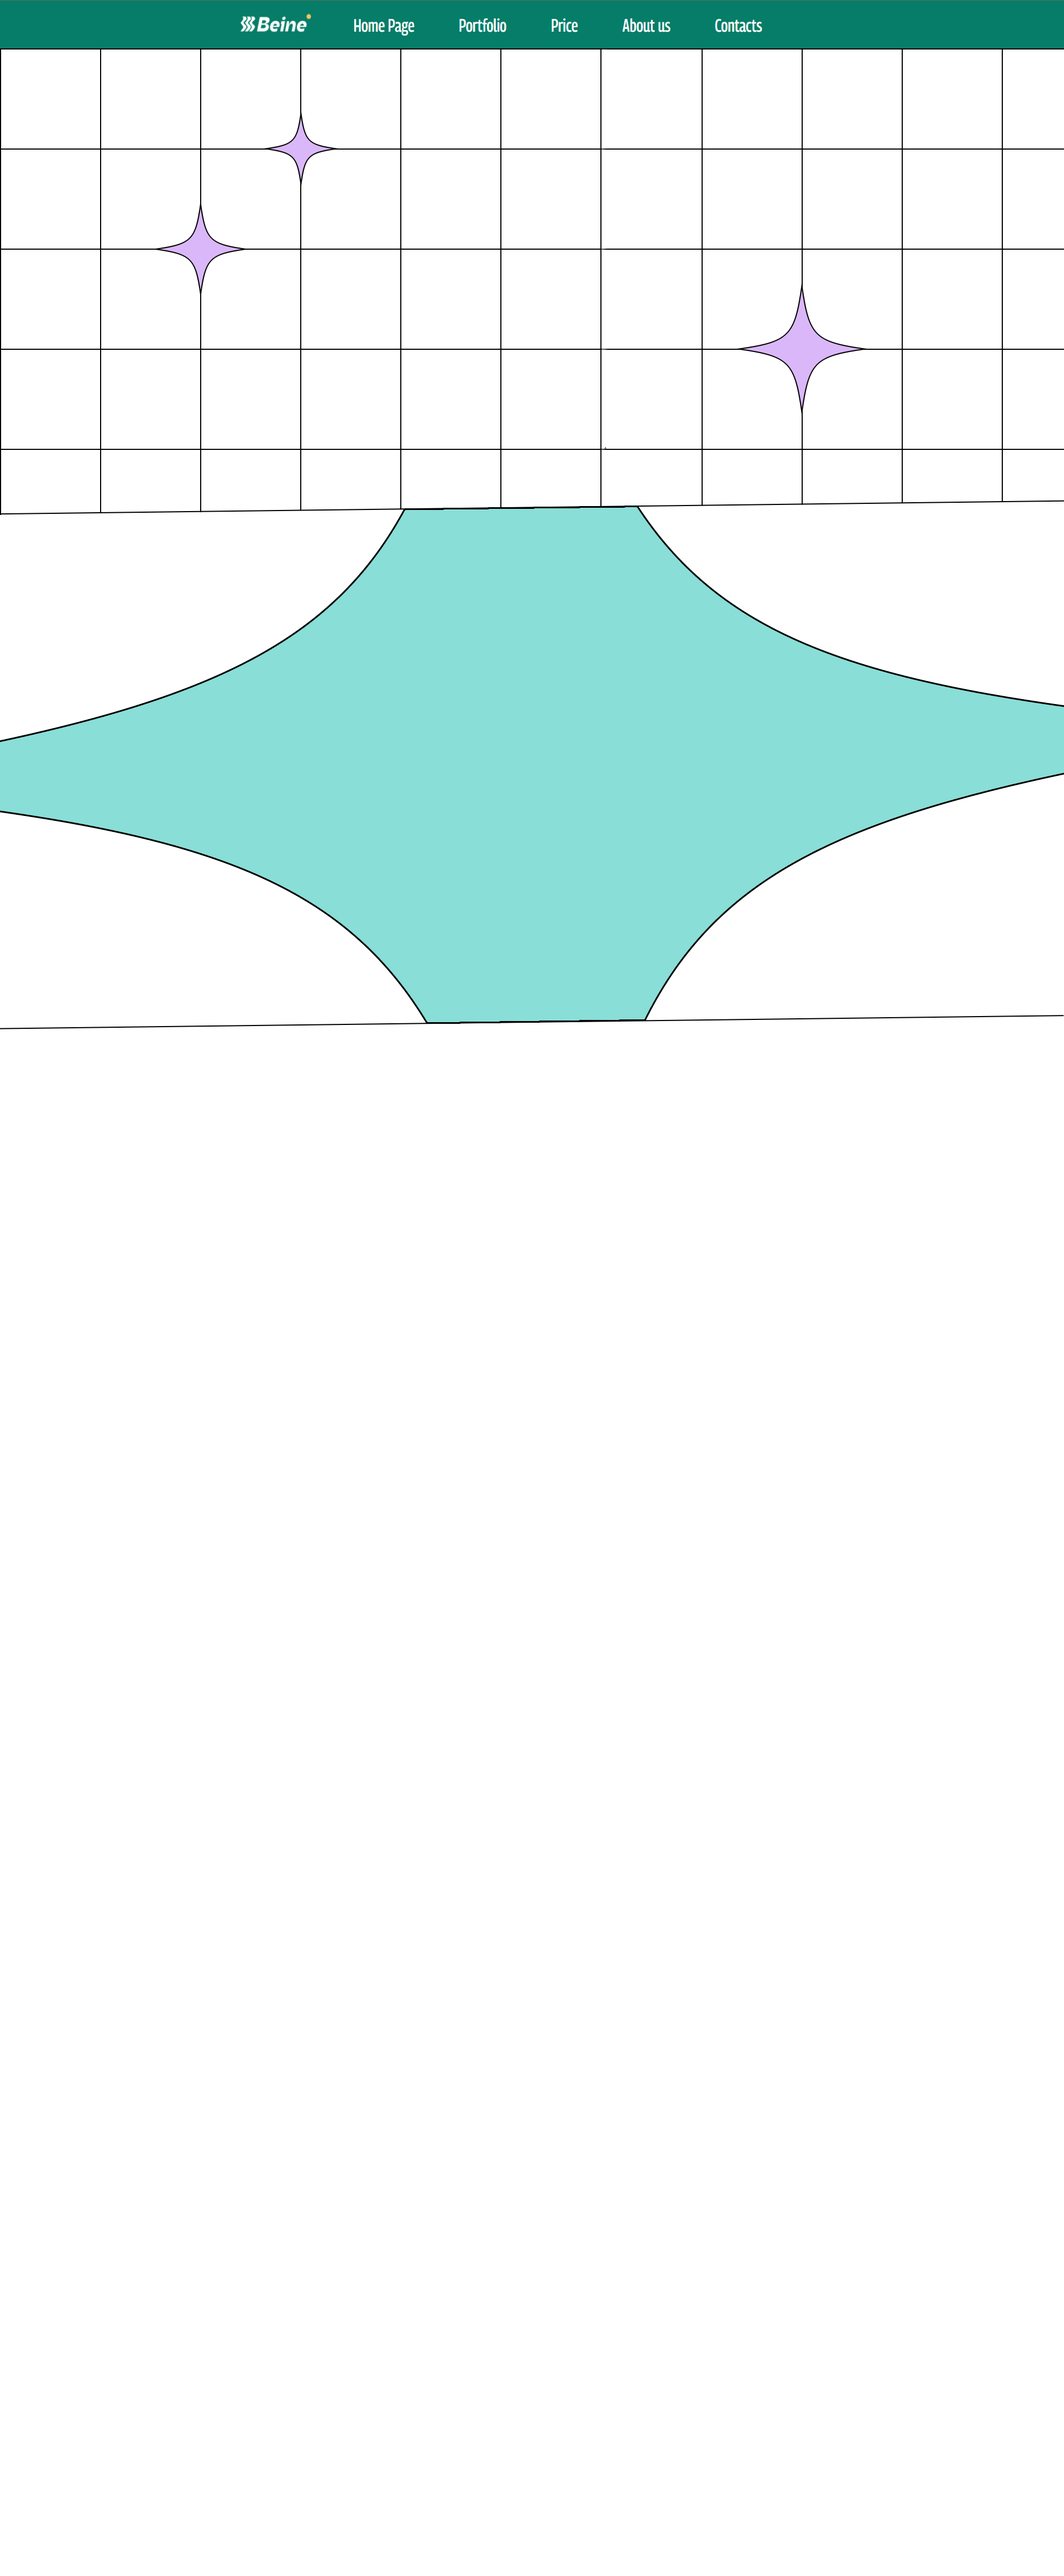
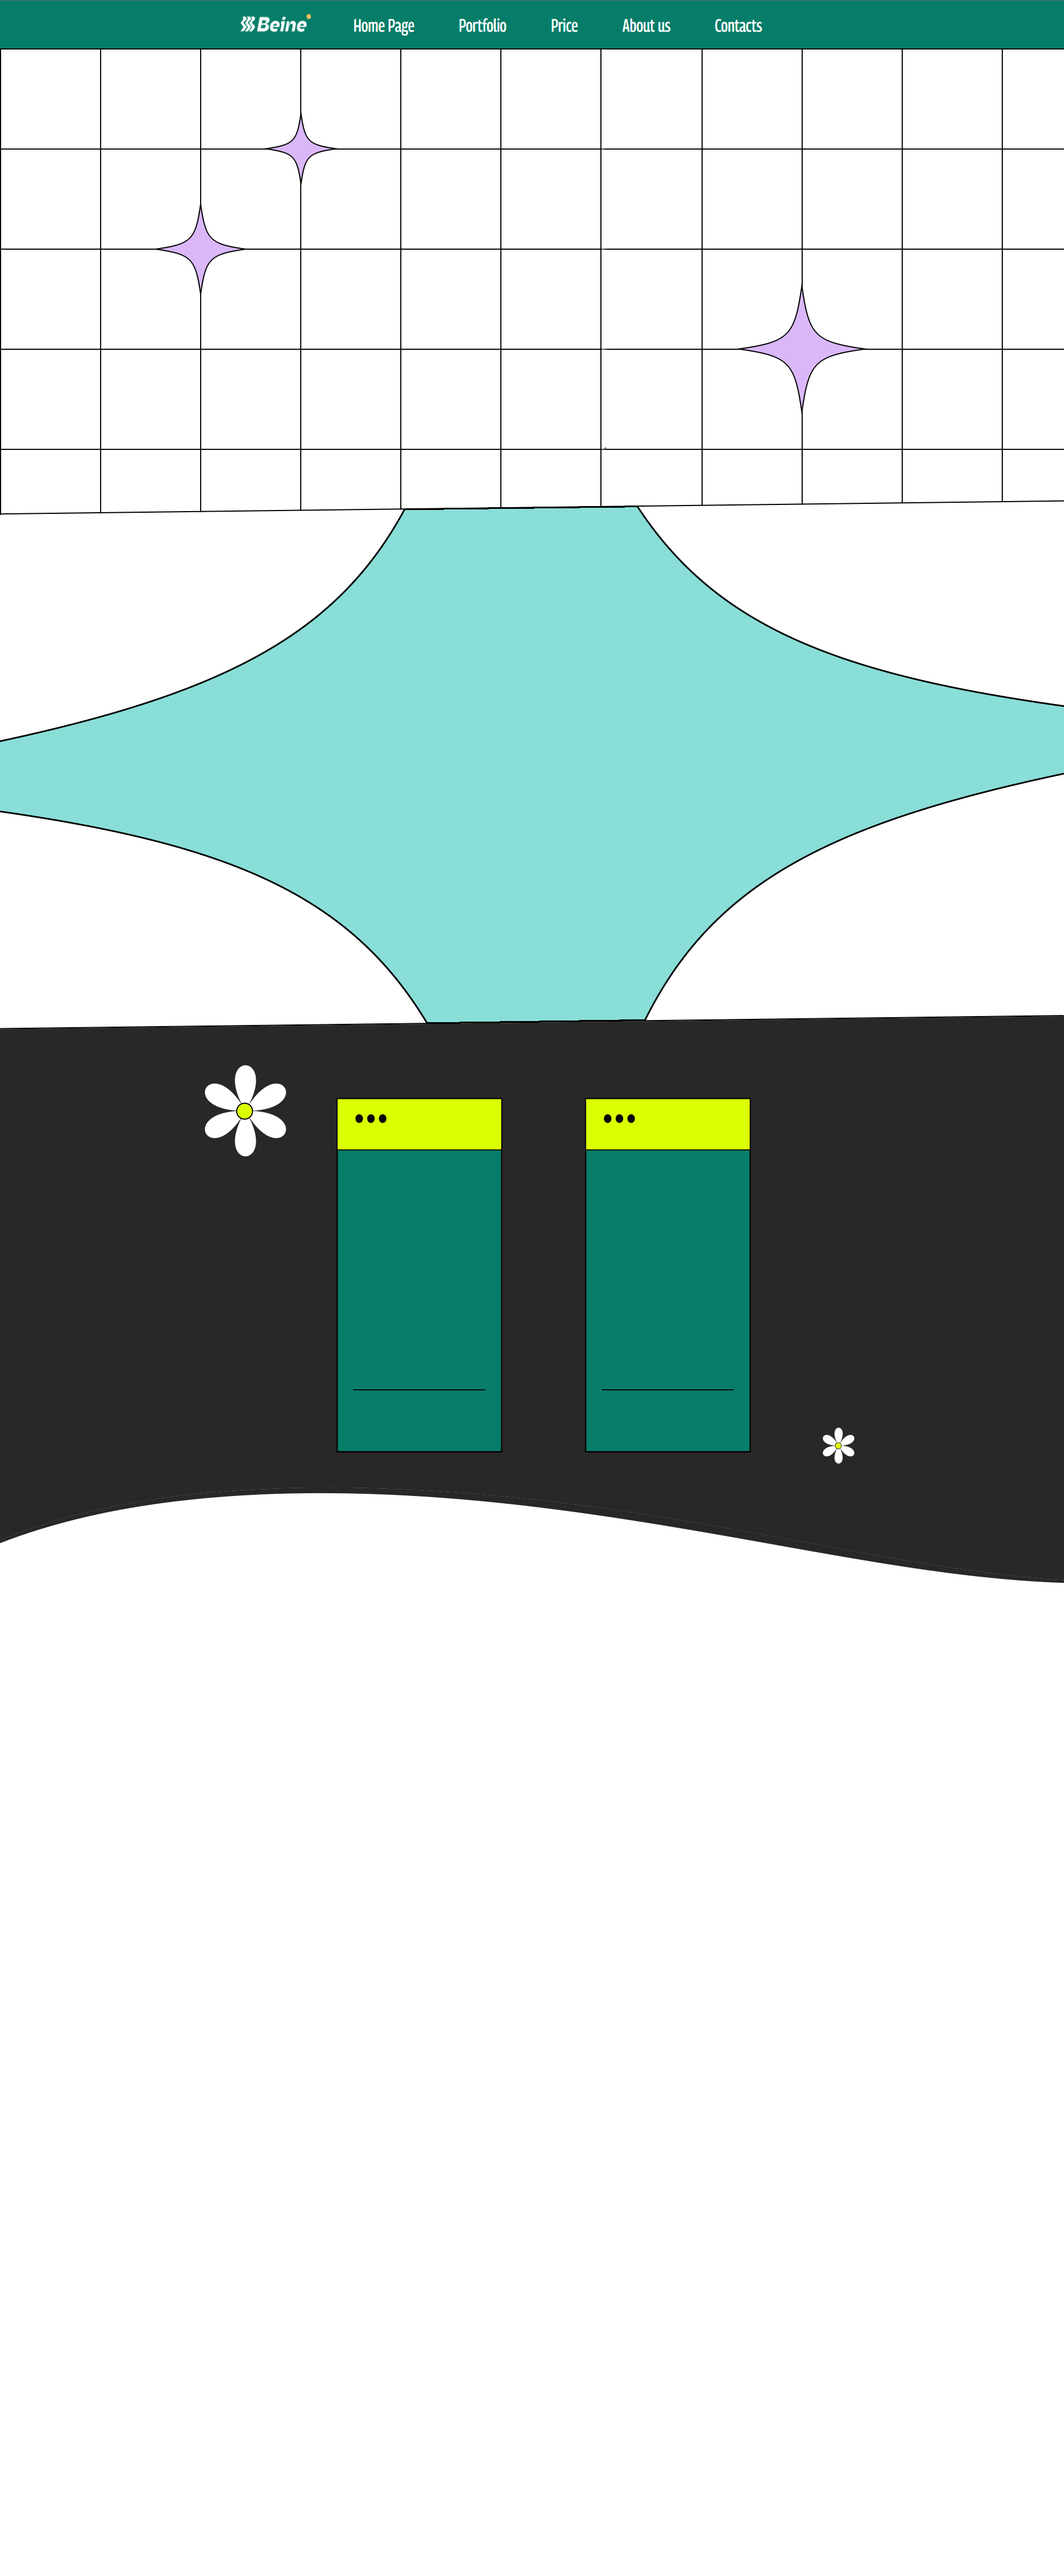
creating page "Price"

Changed region(s): [[0.0, 0.3731, 1.0, 0.6218]]

diff --git a/projectcss.css b/projectcss.css
@@ -97,6 +97,45 @@ border: 2px solid black;
   max-height: 1500px;
 }
 
+.main {
+  padding-top:50px;
+  margin:0 auto;
+  display:flex;
+  max-width:940px;
+  max-height:1000px
+  }
+  
+  .car1{
+  background-color:#067d68;
+  margin-left:140px;
+  
+  border-radius:5px;
+  border: 2px solid black;
+  align-content:center;
+  }
+
+  .toptext{
+    text-align:center;
+    font-size:35px;
+    background-color:#dbfe01;
+    color:#282828;
+    font-family: 'Sora', sans-serif;
+    padding:7 30 7 30;
+
+    }
+    
+    .bottext{
+    font-weight:bold;
+    text-align:center;
+    font-size:35px;
+    font:verdana;
+    }
+
+    .mid{
+      font-size:35px;
+      font-family: 'Georama', sans-serif;
+
+    }
 
 
 

diff --git a/project.html b/project.html
@@ -74,6 +74,23 @@
     </div>
 </div>
 </section>
+<section id="price">
+    <div class="main">
+        <div class="car1">
+            <div class="toptext">Singly</div>
+            <div style="display:flex;"> 
+                <img src="https://img.icons8.com/material-outlined/24/000000/checked-2--v2.png"/>
+                <div class="mid">Sample video layout</div>
+            </div>
+            <div class="bottext">50 000$</div>
+        </div>
+        <div class="car1">
+            <div class="toptext">Monthly</div>
+            
+            <div class="bottext">58 000$</div>
+        </div>
+    </div>
+</section>
 
 
 
